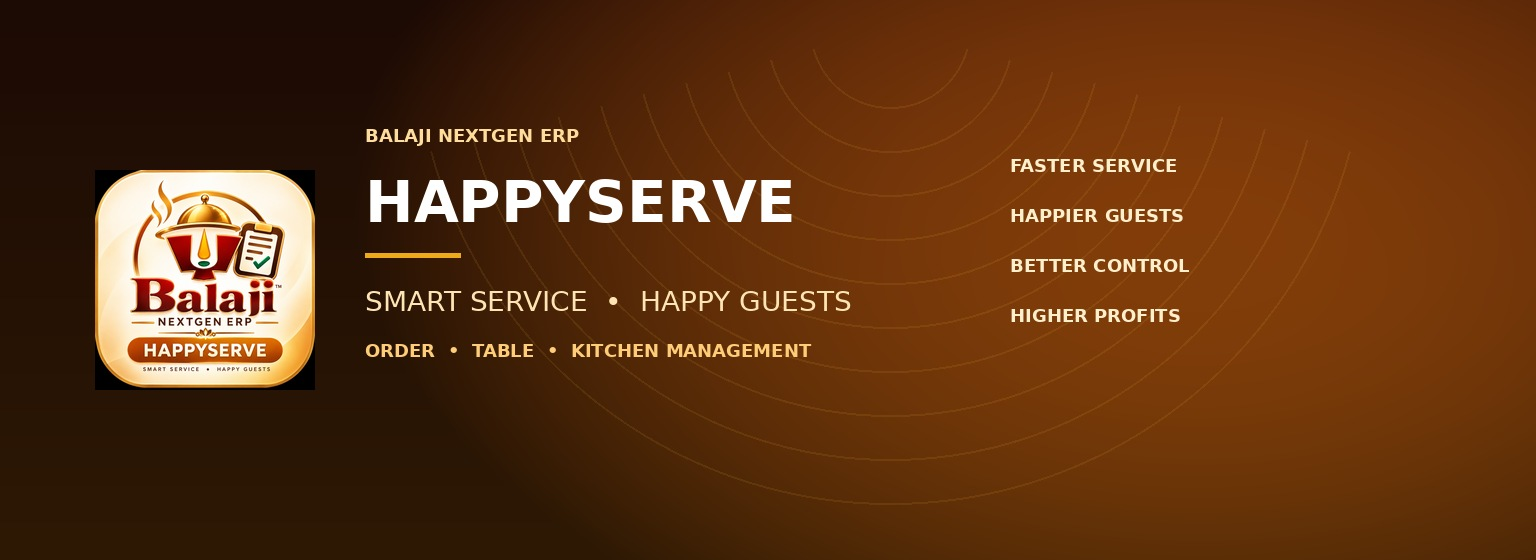
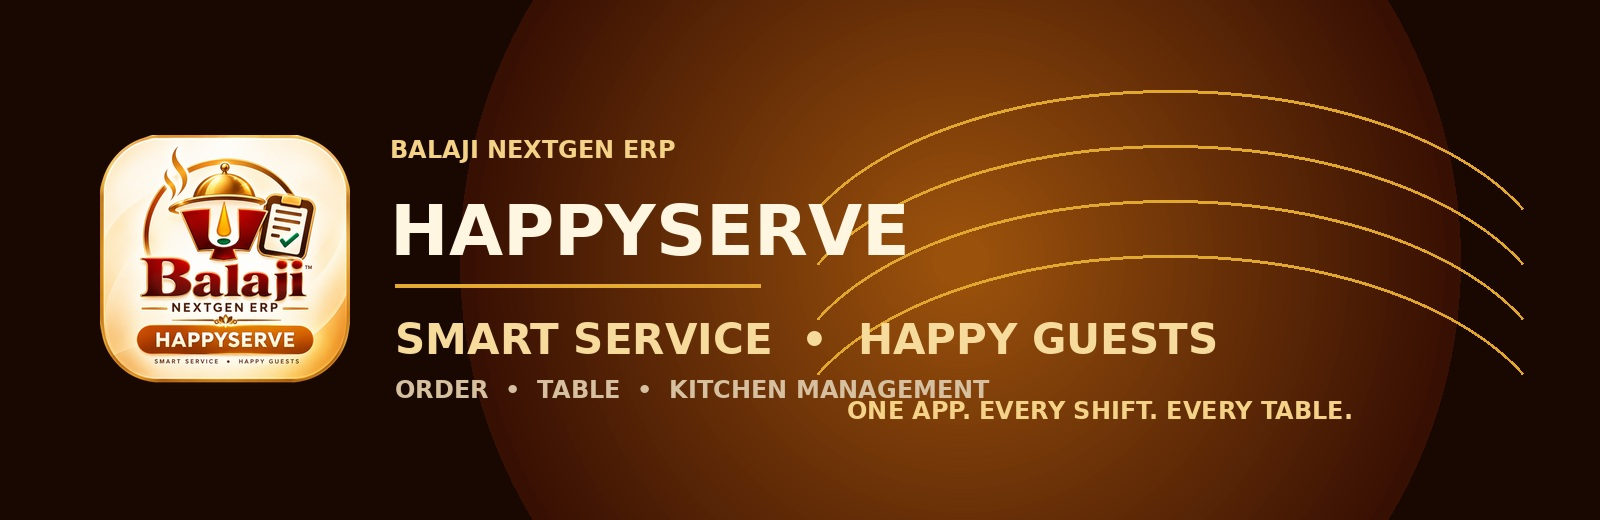
comit

diff --git a/Dashboard/restaurant/steward-app/steward-mobile.html b/Dashboard/restaurant/steward-app/steward-mobile.html
@@ -813,7 +813,7 @@ body{color:var(--hs-ink)!important}
 .login-reference-footer span{display:block;font-size:9px;color:#ffd98c;margin-top:2px}
 @media(max-width:390px){.login-brand-strip{margin-left:12px;margin-right:12px}.login-brand-name{font-size:15px}.login-brand-logo{width:52px;height:52px}}
 </style>
-<meta name="bnx-build" content="STEWARD-HAPPYSERVE-FINAL-SPLASH-LOGIN-SHRINK-FIX-CLIENT10-AUTO-BRANDING-2026-09-12">
+<meta name="bnx-build" content="STEWARD-HAPPYSERVE-PROFESSIONAL-AUTO-COLOUR-CLIENT-BRANDING-2026-09-12">
 
 <style id="steward-mobile-responsive-final-v1">
 /* FINAL STEWARD MOBILE VIEWPORT HARDENING
@@ -1114,6 +1114,194 @@ body{min-height:100dvh;}
   #s-login > .hs-login-brand-header{min-height:166px!important;padding-top:28px!important;padding-bottom:26px!important;}
 }
 </style>
+
+
+<style id="hs-professional-auto-theme-v2">
+/* HAPPYSERVE PROFESSIONAL BRAND ENGINE
+   The login/splash accent follows the active client's uploaded banner/logo.
+   It never changes the business data or report theme — visual branding only. */
+:root{
+  --auto-deep:#3a1305;
+  --auto-primary:#b86d00;
+  --auto-accent:#f0ad16;
+  --auto-glow:rgba(240,173,22,.28);
+  --auto-soft:#fff8eb;
+  --auto-line:rgba(184,109,0,.28);
+}
+body{
+  background:
+    radial-gradient(circle at 50% -10%,var(--auto-glow),transparent 42%),
+    linear-gradient(135deg,var(--auto-deep),#24100a 68%,var(--auto-primary)) !important;
+}
+#bnxSwSplash{
+  background:
+    radial-gradient(circle at 50% 22%,var(--auto-glow),transparent 46%),
+    linear-gradient(145deg,var(--auto-deep) 0%,var(--auto-primary) 58%,var(--auto-accent) 125%) !important;
+}
+.hs-login-brand-header{
+  flex:0 0 auto !important;
+  min-height:198px !important;
+  height:198px !important;
+  box-sizing:border-box !important;
+  padding:25px 20px 22px !important;
+  background:
+    radial-gradient(circle at 50% 0%,rgba(255,255,255,.16),transparent 48%),
+    linear-gradient(145deg,var(--auto-deep),var(--auto-primary) 62%,var(--auto-accent)) !important;
+}
+.hs-login-brand-header .bnx-brand-mark{
+  width:68px !important;height:68px !important;border-radius:20px !important;
+  box-shadow:0 12px 30px rgba(0,0,0,.28),inset 0 1px 0 rgba(255,255,255,.4) !important;
+}
+.hs-login-brand-header .bnx-brand-mark-row{margin-bottom:9px !important;}
+.hs-login-brand-header .bnx-sw-title{font-size:25px !important;line-height:1.05 !important;}
+.hs-login-brand-header .bnx-brand-divider{margin:8px auto !important;background:linear-gradient(90deg,transparent,var(--auto-accent),transparent) !important;}
+.hs-login-brand-header .bnx-sw-sub{font-size:9.5px !important;letter-spacing:1.55px !important;}
+.login-brand-strip{
+  margin:12px 14px 10px !important;
+  min-height:118px !important;
+  border-radius:18px !important;
+  border:1px solid var(--auto-line) !important;
+  box-shadow:0 10px 28px rgba(20,12,7,.13) !important;
+}
+.login-brand-inner{
+  min-height:118px !important;
+  padding:13px 14px !important;
+}
+.login-brand-logo{
+  width:60px !important;height:60px !important;border-radius:15px !important;
+}
+.login-brand-name{font-size:16px !important;}
+.login-brand-pill{background:rgba(255,255,255,.18) !important;}
+#s-login > div:nth-of-type(3){padding:20px 18px 24px !important;}
+#s-login input:focus{
+  border-color:var(--auto-primary) !important;
+  box-shadow:0 0 0 3px var(--auto-glow) !important;
+}
+#s-login .btn-primary,
+.hs-login-install-primary{
+  background:linear-gradient(135deg,var(--auto-primary),var(--auto-accent)) !important;
+  border-color:transparent !important;
+  box-shadow:0 9px 22px var(--auto-glow) !important;
+}
+#s-login a[onclick="openForgotModal()"]{color:var(--auto-primary) !important;}
+#swMotivation{border-left-color:var(--auto-primary) !important;background:linear-gradient(135deg,var(--auto-glow),var(--surface2)) !important;}
+.hs-login-install-card{
+  border-color:var(--auto-line) !important;
+  background:linear-gradient(135deg,var(--auto-soft),#fff) !important;
+}
+.hs-login-install-secondary{color:var(--auto-primary) !important;border-color:var(--auto-line) !important;}
+.login-reference-footer{background:linear-gradient(135deg,var(--auto-deep),var(--auto-primary)) !important;}
+
+@media(max-width:390px){
+  .hs-login-brand-header{min-height:184px !important;height:184px !important;padding:22px 16px 19px !important;}
+  .hs-login-brand-header .bnx-brand-mark{width:62px !important;height:62px !important;}
+  .hs-login-brand-header .bnx-sw-title{font-size:23px !important;}
+  .login-brand-strip{margin:10px 12px 8px !important;min-height:108px !important;}
+  .login-brand-inner{min-height:108px !important;padding:11px 12px !important;}
+  .login-brand-logo{width:54px !important;height:54px !important;}
+  #s-login > div:nth-of-type(3){padding:18px 14px 22px !important;}
+}
+@media(max-height:650px){
+  .hs-login-brand-header{min-height:170px !important;height:170px !important;padding:18px 16px !important;}
+  .hs-login-brand-header .bnx-brand-mark{width:56px !important;height:56px !important;}
+  .hs-login-brand-header .bnx-sw-title{font-size:21px !important;}
+}
+</style>
+
+<script id="hs-professional-auto-theme-v2-js">
+(function(){
+  'use strict';
+  var lastSignature='';
+  function clamp(n,a,b){return Math.max(a,Math.min(b,n));}
+  function rgbToHsl(r,g,b){
+    r/=255;g/=255;b/=255;
+    var max=Math.max(r,g,b),min=Math.min(r,g,b),h=0,s=0,l=(max+min)/2,d=max-min;
+    if(d){s=l>.5?d/(2-max-min):d/(max+min);switch(max){case r:h=((g-b)/d+(g<b?6:0))/6;break;case g:h=((b-r)/d+2)/6;break;default:h=((r-g)/d+4)/6;}}
+    return [h*360,s*100,l*100];
+  }
+  function hsl(h,s,l){return 'hsl('+Math.round(h)+' '+Math.round(clamp(s,0,100))+'% '+Math.round(clamp(l,0,100))+'%)';}
+  function apply(r,g,b){
+    var hslv=rgbToHsl(r,g,b),h=hslv[0],s=hslv[1],l=hslv[2];
+    /* Keep readable, premium UI colors even when the client image is very dark. */
+    var sat=Math.max(48,Math.min(82,s));
+    var deep=hsl(h,sat,Math.max(10,Math.min(25,l*.42)));
+    var primary=hsl(h,sat,Math.max(32,Math.min(55,l*.72+10)));
+    var accent=hsl(h,Math.max(55,sat),Math.max(48,Math.min(68,l+18)));
+    var glow='hsla('+Math.round(h)+','+Math.round(Math.max(55,sat))+'%,58%,.28)';
+    var soft=hsl(h,Math.max(30,sat-10),96);
+    var line='hsla('+Math.round(h)+','+Math.round(Math.max(45,sat))+'%,42%,.30)';
+    var root=document.documentElement;
+    root.style.setProperty('--auto-deep',deep);
+    root.style.setProperty('--auto-primary',primary);
+    root.style.setProperty('--auto-accent',accent);
+    root.style.setProperty('--auto-glow',glow);
+    root.style.setProperty('--auto-soft',soft);
+    root.style.setProperty('--auto-line',line);
+    root.setAttribute('data-auto-brand-theme','1');
+    try{document.querySelector('meta[name="theme-color"]').setAttribute('content',primary);}catch(e){}
+  }
+  function extractFromImage(src,done){
+    if(!src){done(false);return;}
+    var im=new Image();
+    if(/^https?:/i.test(src)) im.crossOrigin='anonymous';
+    im.onload=function(){
+      try{
+        var c=document.createElement('canvas'),ctx=c.getContext('2d',{willReadFrequently:true});
+        c.width=48;c.height=48;ctx.drawImage(im,0,0,48,48);
+        var d=ctx.getImageData(0,0,48,48).data,br=0,bg=0,bb=0,weight=0;
+        for(var i=0;i<d.length;i+=4){
+          var r=d[i],g=d[i+1],b=d[i+2],a=d[i+3]/255;
+          if(a<.35)continue;
+          var mx=Math.max(r,g,b),mn=Math.min(r,g,b),lum=(r+g+b)/3;
+          /* Ignore near-white canvas/background and near-black pixels. */
+          if(mx>245 && mn>235)continue;
+          if(mx<24 && lum<28)continue;
+          var sat=(mx-mn)/(mx||1);
+          var w=(.25+sat*1.8)*a;
+          br+=r*w;bg+=g*w;bb+=b*w;weight+=w;
+        }
+        if(weight<1){done(false);return;}
+        apply(Math.round(br/weight),Math.round(bg/weight),Math.round(bb/weight));
+        done(true);
+      }catch(e){done(false);}
+    };
+    im.onerror=function(){done(false);};
+    im.src=src;
+  }
+  function getBannerSrc(){
+    var el=document.getElementById('login-client-brand');
+    if(!el)return '';
+    var bg=getComputedStyle(el).backgroundImage||'';
+    var m=bg.match(/url\\(["']?(.*?)["']?\\)/i);
+    return m?m[1]:'';
+  }
+  function getLogoSrc(){
+    var el=document.getElementById('login-client-brand-logo');
+    return el && el.src ? el.src : '';
+  }
+  function refresh(){
+    var src=getBannerSrc()||getLogoSrc();
+    if(!src)return;
+    if(src===lastSignature)return;
+    lastSignature=src;
+    extractFromImage(src,function(ok){
+      if(!ok) lastSignature='';
+    });
+  }
+  function start(){
+    refresh();
+    var el=document.getElementById('login-client-brand');
+    if(el){
+      new MutationObserver(function(){setTimeout(refresh,80);}).observe(el,{attributes:true,attributeFilter:['style','class']});
+    }
+    var logo=document.getElementById('login-client-brand-logo');
+    if(logo)new MutationObserver(function(){setTimeout(refresh,80);}).observe(logo,{attributes:true,attributeFilter:['src']});
+    setTimeout(refresh,500);setTimeout(refresh,1400);setInterval(refresh,3000);
+  }
+  if(document.readyState==='loading')document.addEventListener('DOMContentLoaded',start,{once:true});else start();
+})();
+</script>
+
 </head>
 <body>
 <script>
@@ -7185,6 +7373,32 @@ if(getClientId() && getSessionToken()){
   setInterval(function(){try{apply();}catch(e){}},3000);
 })();
 </script>
+<style id="hs-final-client10-production-lock">
+#s-login .bnx-brand-mark-row{gap:0!important}
+#s-login #loginLogoClient,#s-login #loginLogoX{display:none!important}
+#s-login .bnx-brand-mark img{object-fit:contain!important;background:#000!important}
+#login-client-brand{min-height:112px!important;overflow:hidden!important;background-size:cover!important;background-position:center!important}
+#login-client-brand.common-login-brand{background-image:url("assets/common-balaji-banner.jpg")!important;background-size:cover!important;background-position:center!important}
+#login-client-brand-logo{object-fit:contain!important;background:#000!important}
+#hs-client-banner.has-image{background-size:cover!important;background-position:center!important}
+#login-install-card.hs-install-hidden,.hs-installed{display:none!important}
+</style>
+<script id="hs-final-client10-auto-colour-sync">
+(function(){
+'use strict';
+var COMMON_BANNER='assets/common-balaji-banner.jpg',CLIENT10_BANNER='assets/client-10-banner.png',CLIENT10_LOGO='assets/client-10-logo.png';
+function obj(v){try{return typeof v==='string'?JSON.parse(v||'{}'):(v||{});}catch(e){return {};}}
+function user(){try{return obj(sessionStorage.getItem('ERP_USER')||localStorage.getItem('ERP_USER')||'{}');}catch(e){return {};}}
+function cid(){var u=user();try{var q=new URLSearchParams(location.search),qv=q.get('client_id')||q.get('client')||q.get('cid');if(qv)return String(qv);}catch(e){}return String(u.CLIENT_ID||u.clientId||u.client_id||localStorage.getItem('ERP_CLIENT')||localStorage.getItem('bnx_client_id')||'default');}
+function is10(){var c=cid().toUpperCase().replace(/[^A-Z0-9]/g,'');return c==='10'||c==='CL00010'||c==='CLIENT10';}
+function auth(){var u=user();return !!(u.ROLE||u.role||u.USER_ID||u.USERNAME||u.USER_NAME||u.USER_CODE);}
+function setVar(k,v){try{document.documentElement.style.setProperty(k,v);}catch(e){}}
+function autoColour(src){if(!src)return;var im=new Image();im.onload=function(){try{var c=document.createElement('canvas'),x=c.getContext('2d',{willReadFrequently:true});c.width=64;c.height=32;x.drawImage(im,0,0,64,32);var d=x.getImageData(0,0,64,32).data,r=0,g=0,b=0,n=0;for(var i=0;i<d.length;i+=16){var rr=d[i],gg=d[i+1],bb=d[i+2],a=d[i+3],mx=Math.max(rr,gg,bb),mn=Math.min(rr,gg,bb);if(a<180||mx<35||mx-mn<22)continue;r+=rr;g+=gg;b+=bb;n++;}if(!n)return;r=Math.round(r/n);g=Math.round(g/n);b=Math.round(b/n);setVar('--gold','rgb('+r+','+g+','+b+')');setVar('--gold2','rgb('+Math.min(255,r+28)+','+Math.min(255,g+22)+','+Math.min(255,b+8)+')');setVar('--theme-g2','rgb('+r+','+g+','+b+')');setVar('--theme-g3','rgb('+Math.min(255,r+42)+','+Math.min(255,g+34)+','+Math.min(255,b+18)+')');}catch(e){}};im.onerror=function(){};im.src=src;}
+function apply(){var installed=false;try{installed=window.matchMedia('(display-mode: standalone)').matches||window.navigator.standalone===true||localStorage.getItem('bnx_steward_app_installed')==='1';}catch(e){}var card=document.getElementById('login-install-card');if(card&&installed){card.classList.add('hs-install-hidden');card.style.display='none';}if(!auth()){var strip=document.getElementById('login-client-brand');if(strip){strip.classList.add('common-login-brand');strip.classList.remove('has-image');strip.style.backgroundImage='url("'+COMMON_BANNER+'")';}var lg=document.getElementById('login-client-brand-logo');if(lg){lg.src='icons/icon-512.png';lg.style.display='block';}var nm=document.getElementById('login-client-brand-name');if(nm)nm.textContent='Smart Service • Happy Guests';var tg=document.getElementById('login-client-brand-tag');if(tg)tg.textContent='Order • Table • Kitchen Management';var pl=document.getElementById('login-client-brand-pill');if(pl)pl.textContent='COMMON HAPPYSERVE BRAND';return;}if(is10()){var strip10=document.getElementById('login-client-brand');if(strip10){strip10.classList.add('has-image');strip10.classList.remove('common-login-brand');strip10.style.backgroundImage='url("'+CLIENT10_BANNER+'")';}var lg10=document.getElementById('login-client-brand-logo');if(lg10)lg10.src=CLIENT10_LOGO;var nm10=document.getElementById('login-client-brand-name');if(nm10)nm10.textContent='HASHTAG A Restro Pub';var tg10=document.getElementById('login-client-brand-tag');if(tg10)tg10.textContent='Good Food • Great People • Always a Good Time';var pl10=document.getElementById('login-client-brand-pill');if(pl10)pl10.textContent='CLIENT 10 • CLIENT BRANDING';var hb=document.getElementById('hs-client-banner');if(hb){hb.classList.add('has-image');hb.classList.remove('common-brand');hb.style.backgroundImage='url("'+CLIENT10_BANNER+'")';}var ht=document.getElementById('hs-client-banner-title');if(ht)ht.textContent='HASHTAG A Restro Pub';var hs=document.getElementById('hs-client-banner-sub');if(hs)hs.textContent='Good Food • Great People • Always a Good Time';var hw=document.getElementById('hs-client-logo-wrap');if(hw)hw.innerHTML='<img class="hs-client-logo" src="'+CLIENT10_LOGO+'" alt="HASHTAG A Restro Pub logo">';autoColour(CLIENT10_BANNER);}}
+window.addEventListener('appinstalled',function(){try{localStorage.setItem('bnx_steward_app_installed','1');}catch(e){}var c=document.getElementById('login-install-card');if(c){c.classList.add('hs-install-hidden');c.style.display='none';}});document.addEventListener('DOMContentLoaded',function(){apply();setTimeout(apply,300);setTimeout(apply,1200);});window.addEventListener('load',function(){apply();setTimeout(apply,900);});window.addEventListener('storage',function(e){if(e&&(/ERP_USER|ERP_CLIENT|brand|banner|logo/i.test(e.key||'')))setTimeout(apply,50);});setInterval(function(){try{apply();}catch(e){}},2500);
+})();
+</script>
+
 </body>
 </html>
 
